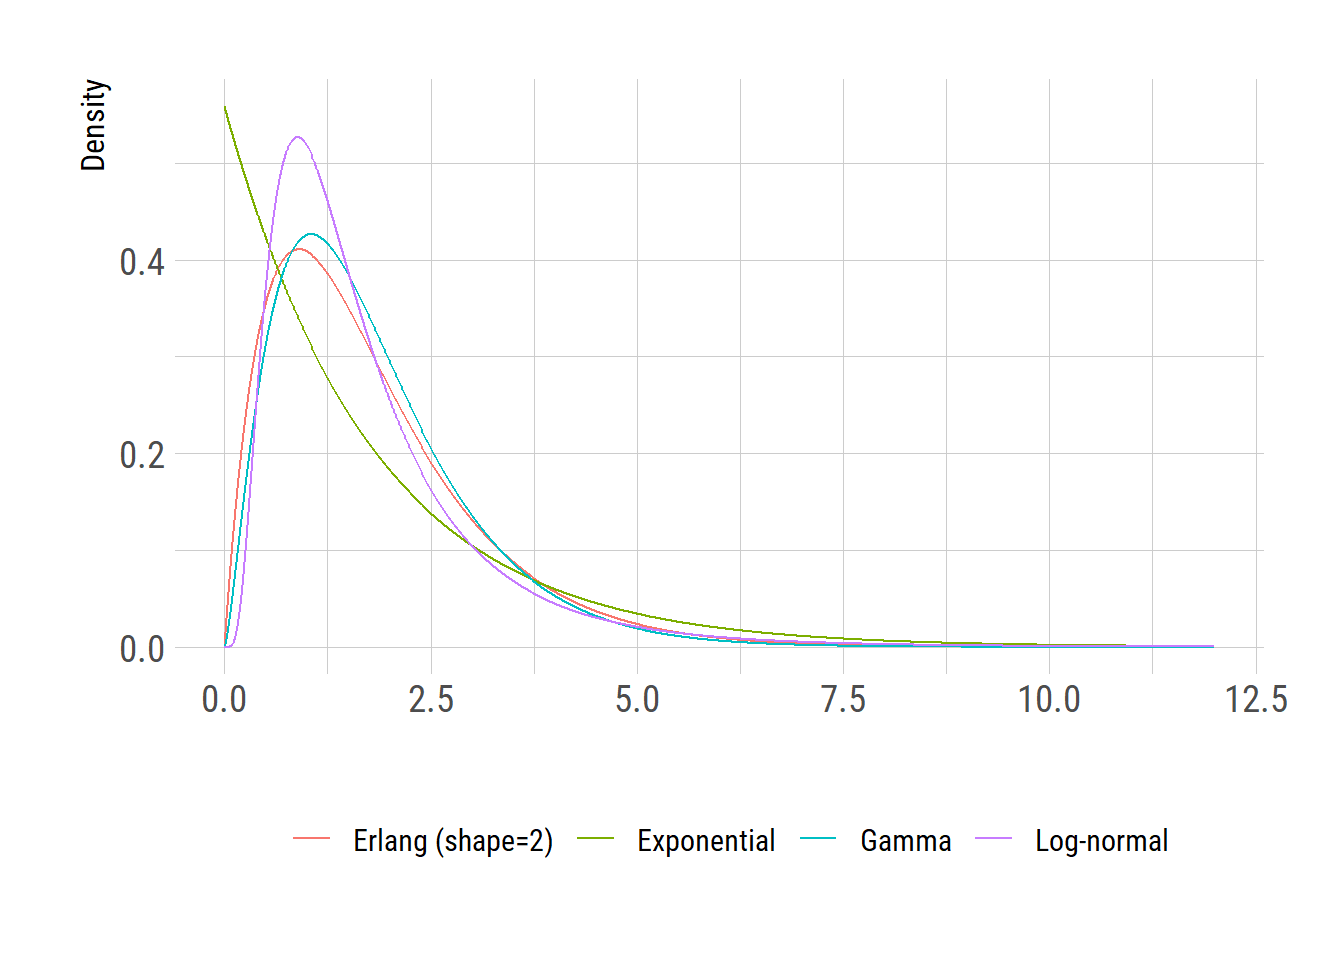
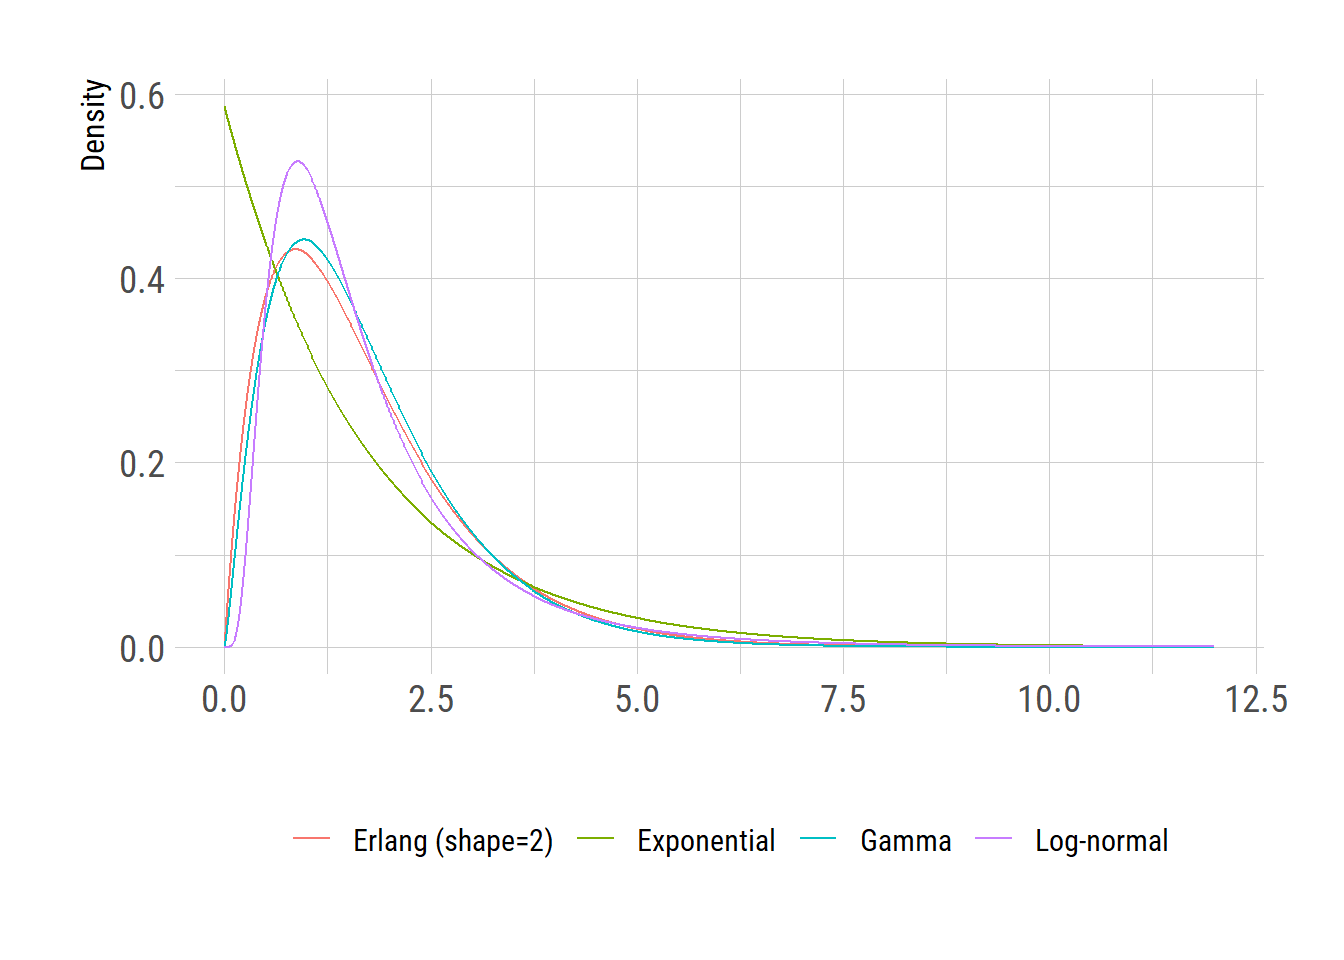
figure and minor edits

diff --git a/docs/posts/exp_erlang_lognormal/index.html b/docs/posts/exp_erlang_lognormal/index.html
@@ -209,14 +209,14 @@ pre > code.sourceCode > span > a:first-child::before { text-decoration: underlin
 <span id="cb3-5"><a href="#cb3-5" aria-hidden="true" tabindex="-1"></a></span>
 <span id="cb3-6"><a href="#cb3-6" aria-hidden="true" tabindex="-1"></a><span class="fu">round</span>(<span class="fu">qexp</span>(<span class="fu">c</span>(<span class="fl">0.05</span>, <span class="fl">0.95</span>), <span class="at">rate=</span>fit_exp<span class="sc">$</span>estimate[[<span class="dv">1</span>]]), <span class="at">digits=</span><span class="dv">1</span>)</span></code><button title="Copy to Clipboard" class="code-copy-button"><i class="bi"></i></button></pre></div>
 <div class="cell-output cell-output-stdout">
-<pre><code>[1] 0.1 5.5</code></pre>
+<pre><code>[1] 0.1 5.1</code></pre>
 </div>
 <div class="sourceCode cell-code" id="cb5"><pre class="sourceCode r code-with-copy"><code class="sourceCode r"><span id="cb5-1"><a href="#cb5-1" aria-hidden="true" tabindex="-1"></a><span class="fu">round</span>(<span class="fu">qgamma</span>(<span class="fu">c</span>(<span class="fl">0.05</span>, <span class="fl">0.95</span>), <span class="at">shape=</span>fit_gam<span class="sc">$</span>estimate[[<span class="dv">1</span>]], <span class="at">rate=</span>fit_gam<span class="sc">$</span>estimate[[<span class="dv">2</span>]]), <span class="at">digits=</span><span class="dv">1</span>)</span></code><button title="Copy to Clipboard" class="code-copy-button"><i class="bi"></i></button></pre></div>
 <div class="cell-output cell-output-stdout">
-<pre><code>[1] 0.4 4.2</code></pre>
+<pre><code>[1] 0.4 3.9</code></pre>
 </div>
 </div>
-<p>By examining <span class="math inline">\(5th\)</span> and <span class="math inline">\(95th\)</span> percentiles, we realize that the best-fit exponential distribution is too wide compared with the log-normal distribution whereas the Gamma distribution looks better.</p>
+<p>By examining <span class="math inline">\(5^{th}\)</span> and <span class="math inline">\(95^{th}\)</span> percentiles, we realize that the best-fit exponential distribution is too wide compared with the log-normal distribution whereas the Gamma distribution looks better.</p>
 <p>However, in the context of ODE models, Gamma distribution is not easy to implement except for a subset in which the shape parameter is an integer (i.e., Erlang distribution). Therefore, I fit the rate parameter of the Gamma distribution while the shape parameter is set to an integer. Based on the previous fitting results (shape parameter = 2.348677), I only test the cases where the shape parameter is 2 or 3.</p>
 <div class="cell">
 <div class="sourceCode cell-code" id="cb7"><pre class="sourceCode r code-with-copy"><code class="sourceCode r"><span id="cb7-1"><a href="#cb7-1" aria-hidden="true" tabindex="-1"></a>erlang_nll <span class="ot">=</span> <span class="cf">function</span>(p, <span class="at">shp=</span><span class="dv">3</span>){</span>
@@ -245,12 +245,13 @@ pre > code.sourceCode > span > a:first-child::before { text-decoration: underlin
 <span id="cb8-15"><a href="#cb8-15" aria-hidden="true" tabindex="-1"></a>extrafont<span class="sc">::</span><span class="fu">loadfonts</span>(<span class="st">"win"</span>, <span class="at">quiet=</span><span class="cn">TRUE</span>)</span>
 <span id="cb8-16"><a href="#cb8-16" aria-hidden="true" tabindex="-1"></a><span class="fu">theme_set</span>(hrbrthemes<span class="sc">::</span><span class="fu">theme_ipsum_rc</span>(<span class="at">base_size=</span><span class="dv">14</span>, <span class="at">subtitle_size=</span><span class="dv">16</span>, <span class="at">axis_title_size=</span><span class="dv">12</span>))</span>
 <span id="cb8-17"><a href="#cb8-17" aria-hidden="true" tabindex="-1"></a></span>
-<span id="cb8-18"><a href="#cb8-18" aria-hidden="true" tabindex="-1"></a>plt <span class="ot">=</span> <span class="fu">ggplot</span>(df)<span class="sc">+</span></span>
+<span id="cb8-18"><a href="#cb8-18" aria-hidden="true" tabindex="-1"></a><span class="fu">ggplot</span>(df)<span class="sc">+</span></span>
 <span id="cb8-19"><a href="#cb8-19" aria-hidden="true" tabindex="-1"></a>  <span class="fu">geom_line</span>(<span class="fu">aes</span>(<span class="at">x=</span>val, <span class="at">y=</span>density, <span class="at">color=</span>dist))<span class="sc">+</span></span>
 <span id="cb8-20"><a href="#cb8-20" aria-hidden="true" tabindex="-1"></a>  <span class="fu">labs</span>(<span class="at">y=</span><span class="st">"Density"</span>, <span class="at">x=</span><span class="st">""</span>, <span class="at">color=</span><span class="st">""</span>)<span class="sc">+</span></span>
-<span id="cb8-21"><a href="#cb8-21" aria-hidden="true" tabindex="-1"></a>  <span class="fu">theme</span>(<span class="at">legend.position =</span> <span class="st">"bottom"</span>)</span>
-<span id="cb8-22"><a href="#cb8-22" aria-hidden="true" tabindex="-1"></a></span>
-<span id="cb8-23"><a href="#cb8-23" aria-hidden="true" tabindex="-1"></a><span class="fu">ggsave</span>(<span class="st">"lnorm_exp_erlang.png"</span>, plt, <span class="at">units=</span><span class="st">"in"</span>, <span class="at">width=</span><span class="fl">3.4</span><span class="sc">*</span><span class="dv">2</span>, <span class="at">height=</span><span class="fl">2.7</span><span class="sc">*</span><span class="dv">2</span>)</span></code><button title="Copy to Clipboard" class="code-copy-button"><i class="bi"></i></button></pre></div>
+<span id="cb8-21"><a href="#cb8-21" aria-hidden="true" tabindex="-1"></a>  <span class="fu">theme</span>(<span class="at">legend.position =</span> <span class="st">"bottom"</span>)</span></code><button title="Copy to Clipboard" class="code-copy-button"><i class="bi"></i></button></pre></div>
+<div class="cell-output-display">
+<p><img src="index_files/figure-html/unnamed-chunk-4-1.png" class="img-fluid" width="672"></p>
+</div>
 </div>
 <p>The above figure clearly shows that the Erlang distribution has a better representation of reality (in this case, the log-normal distributed incubation period) than the commonly used exponential distribution.</p>
 

diff --git a/docs/index.html b/docs/index.html
@@ -192,7 +192,7 @@ Jong-Hoon Kim
 </a>
 </div>
 </div>
-<div class="quarto-post image-right" data-index="1" data-categories="incubation period,ODE,cholera,exponential,Erlang" data-listing-date-sort="1708527600000" data-listing-file-modified-sort="1708910424790" data-listing-date-modified-sort="NaN" data-listing-reading-time-sort="3">
+<div class="quarto-post image-right" data-index="1" data-categories="incubation period,ODE,cholera,exponential,Erlang" data-listing-date-sort="1708527600000" data-listing-file-modified-sort="1708910886814" data-listing-date-modified-sort="NaN" data-listing-reading-time-sort="3">
 <div class="thumbnail">
 <p><a href="./posts/exp_erlang_lognormal/index.html"> <img src="./posts/exp_erlang_lognormal/lnorm_exp_erlang.png" class="thumbnail-image"> </a></p>
 </div>
